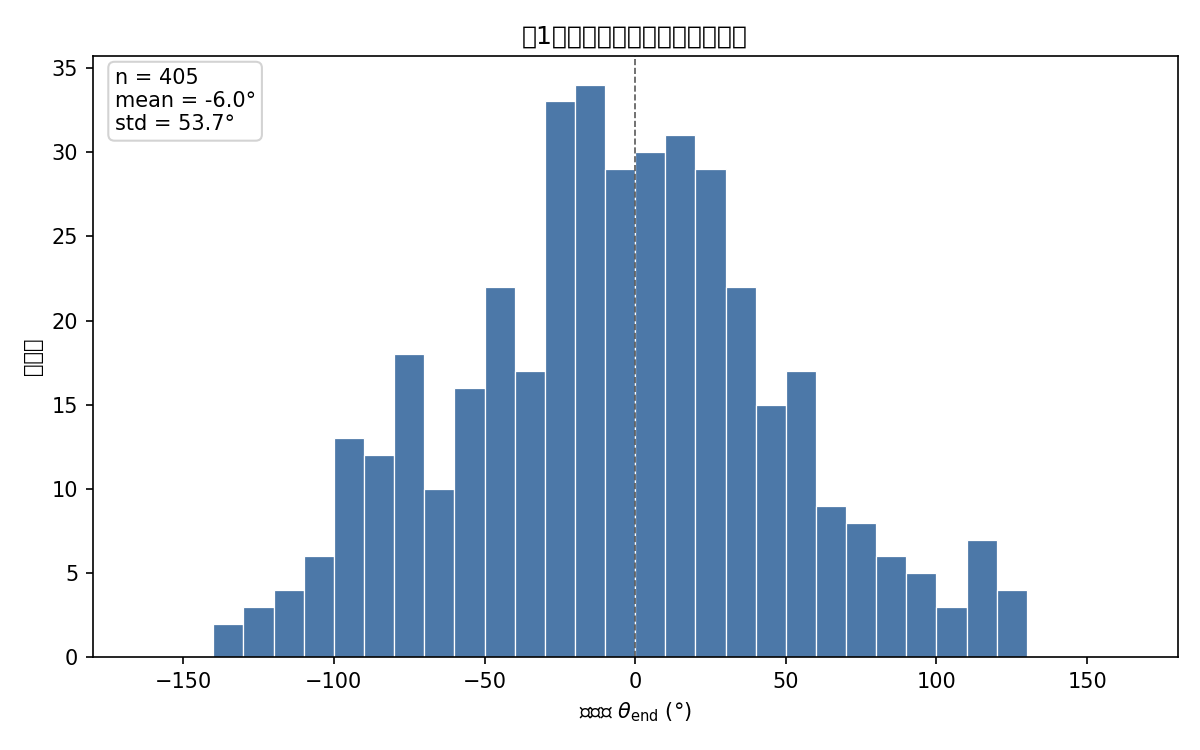
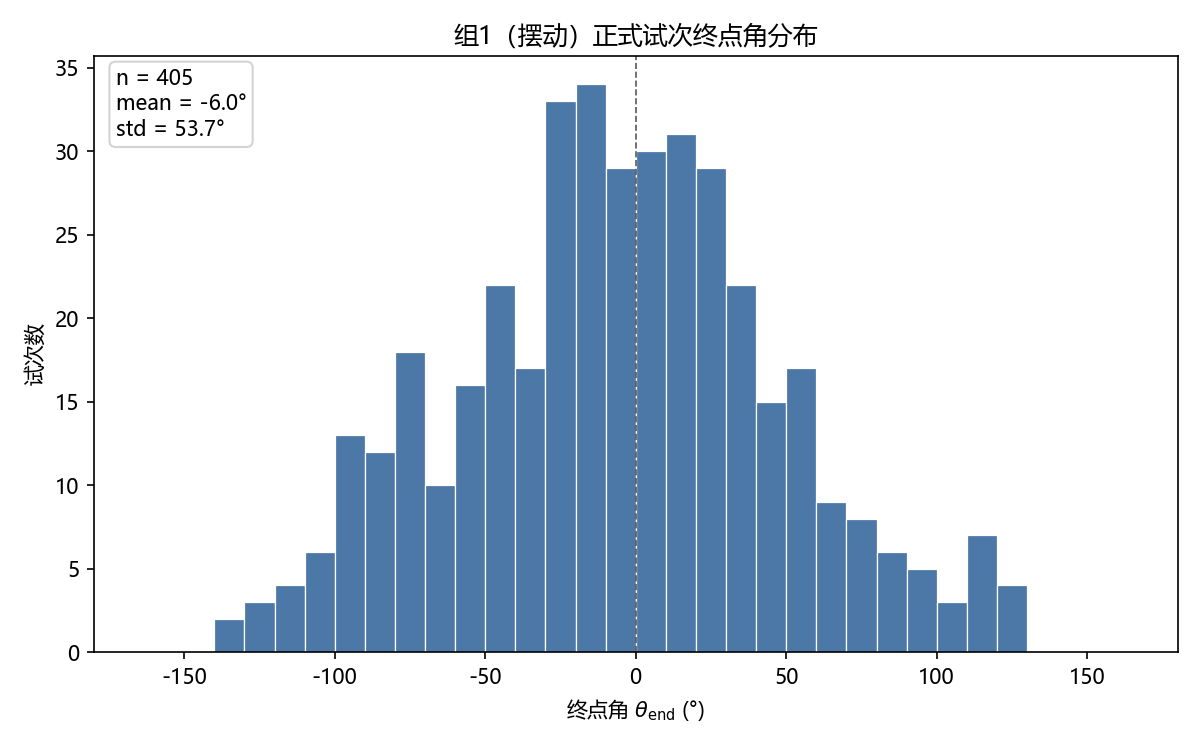
t

diff --git a/stimulate/plot_end_theta_hist.py b/stimulate/plot_end_theta_hist.py
@@ -11,10 +11,29 @@ import sys
 from pathlib import Path
 
 import matplotlib.pyplot as plt
+from matplotlib import font_manager
 import numpy as np
 import pandas as pd
 
 HERE = Path(__file__).resolve().parent
+
+
+def setup_fonts() -> None:
+    candidates = [
+        r"C:\Windows\Fonts\msyh.ttc",
+        r"C:\Windows\Fonts\msyh.ttf",
+        r"C:\Windows\Fonts\simhei.ttf",
+        r"C:\Windows\Fonts\simsun.ttc",
+    ]
+    for path in candidates:
+        if Path(path).exists():
+            font_manager.fontManager.addfont(path)
+            family = font_manager.FontProperties(fname=path).get_name()
+            plt.rcParams["font.sans-serif"] = [family, "DejaVu Sans"]
+            break
+    else:
+        plt.rcParams["font.sans-serif"] = ["Microsoft YaHei", "SimHei", "DejaVu Sans"]
+    plt.rcParams["axes.unicode_minus"] = False
 
 
 def plot_group_hist(
@@ -27,7 +46,13 @@ def plot_group_hist(
 ) -> None:
     fig, ax = plt.subplots(figsize=(8, 5))
     bins = np.linspace(-180, 180, 37)  # 10° 宽
-    ax.hist(angles_deg, bins=bins, color="#4C78A8" if group == 1 else "#F58518", edgecolor="white", linewidth=0.6)
+    ax.hist(
+        angles_deg,
+        bins=bins,
+        color="#4C78A8" if group == 1 else "#F58518",
+        edgecolor="white",
+        linewidth=0.6,
+    )
     ax.set_xlim(-180, 180)
     ax.set_xlabel(r"终点角 $\theta_{\mathrm{end}}$ (°)")
     ax.set_ylabel("试次数")
@@ -44,7 +69,12 @@ def plot_group_hist(
         va="top",
         ha="left",
         fontsize=10,
-        bbox={"boxstyle": "round,pad=0.3", "facecolor": "white", "alpha": 0.85, "edgecolor": "0.8"},
+        bbox={
+            "boxstyle": "round,pad=0.3",
+            "facecolor": "white",
+            "alpha": 0.85,
+            "edgecolor": "0.8",
+        },
     )
     fig.tight_layout()
     fig.savefig(out_path, dpi=dpi)
@@ -53,6 +83,7 @@ def plot_group_hist(
 
 
 def main() -> None:
+    setup_fonts()
     csv_path = Path(sys.argv[1]) if len(sys.argv) > 1 else HERE / "end_theta_by_group.csv"
     out_dir = Path(sys.argv[2]) if len(sys.argv) > 2 else HERE
     df = pd.read_csv(csv_path)
